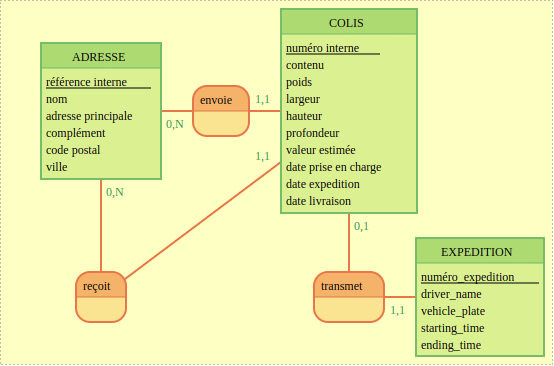
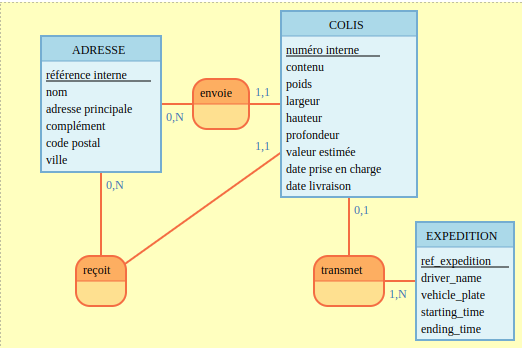
challenge terminé

diff --git a/conception/mld_v4.md b/conception/mld_v4.md
@@ -1,3 +1,3 @@
-ADRESSE ( id, nom, adresse principale, complément, code postal, ville )
-COLIS ( id, contenu, poids, largeur, hauteur, profondeur, valeur estimée, date prise en charge, date expedition, date livraison, adresse_id)
-EXPEDITION ( numéro_expedition, driver_name, vehicle_plate, starting_time, ending_time, colis_id )
+ADRESSE ( référence interne, nom, adresse principale, complément, code postal, ville )
+COLIS ( numéro interne, contenu, poids, largeur, hauteur, profondeur, valeur estimée, date prise en charge, date livraison, référence interne, référence interne.1, ref_expedition )
+EXPEDITION ( ref_expedition, driver_name, vehicle_plate, starting_time, ending_time )
